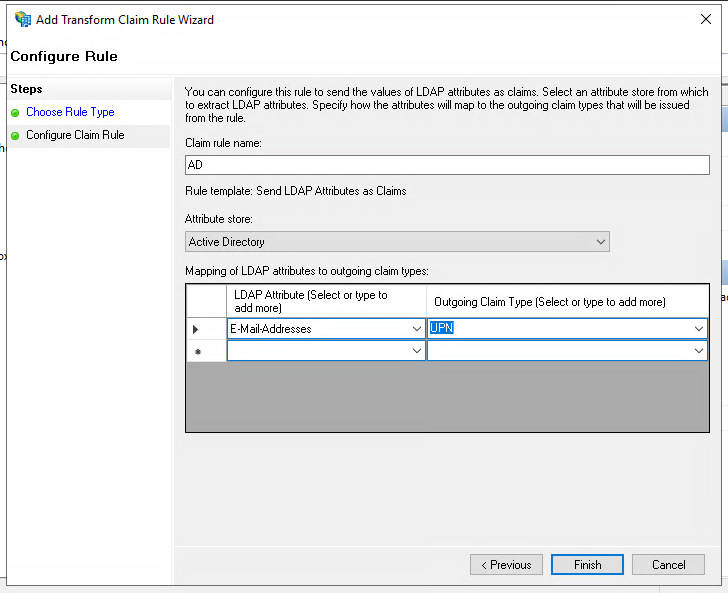
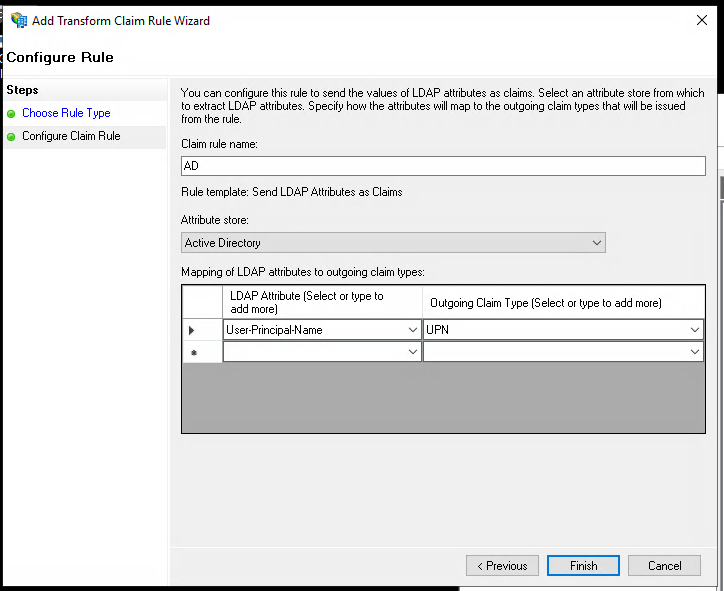
[#48290] Update ADFS guide
Change the recommended LDAP attribute to "User-Principle-Name" as it
seems a bit more robust.

Changed region(s): [[0.0, 0.0, 1.0, 1.0], [0.8204, 0.3959, 0.8508, 0.4264]]

diff --git a/docs/src/guides/adfs-setup.md b/docs/src/guides/adfs-setup.md
@@ -82,7 +82,7 @@ Select "Send LDAP Attributes as Claims" and click "Next".
 
 ![](./img/adfs_claim_2.png)
 
-Select an LDAP attribute to send as a claim. As an example we have selected "E-Mail".
+Select an LDAP attribute to send as a claim. As an example we have selected "User-Principle-Name".
 Select "UPN" as outgoing claim type.
 
 Click "Finish".
